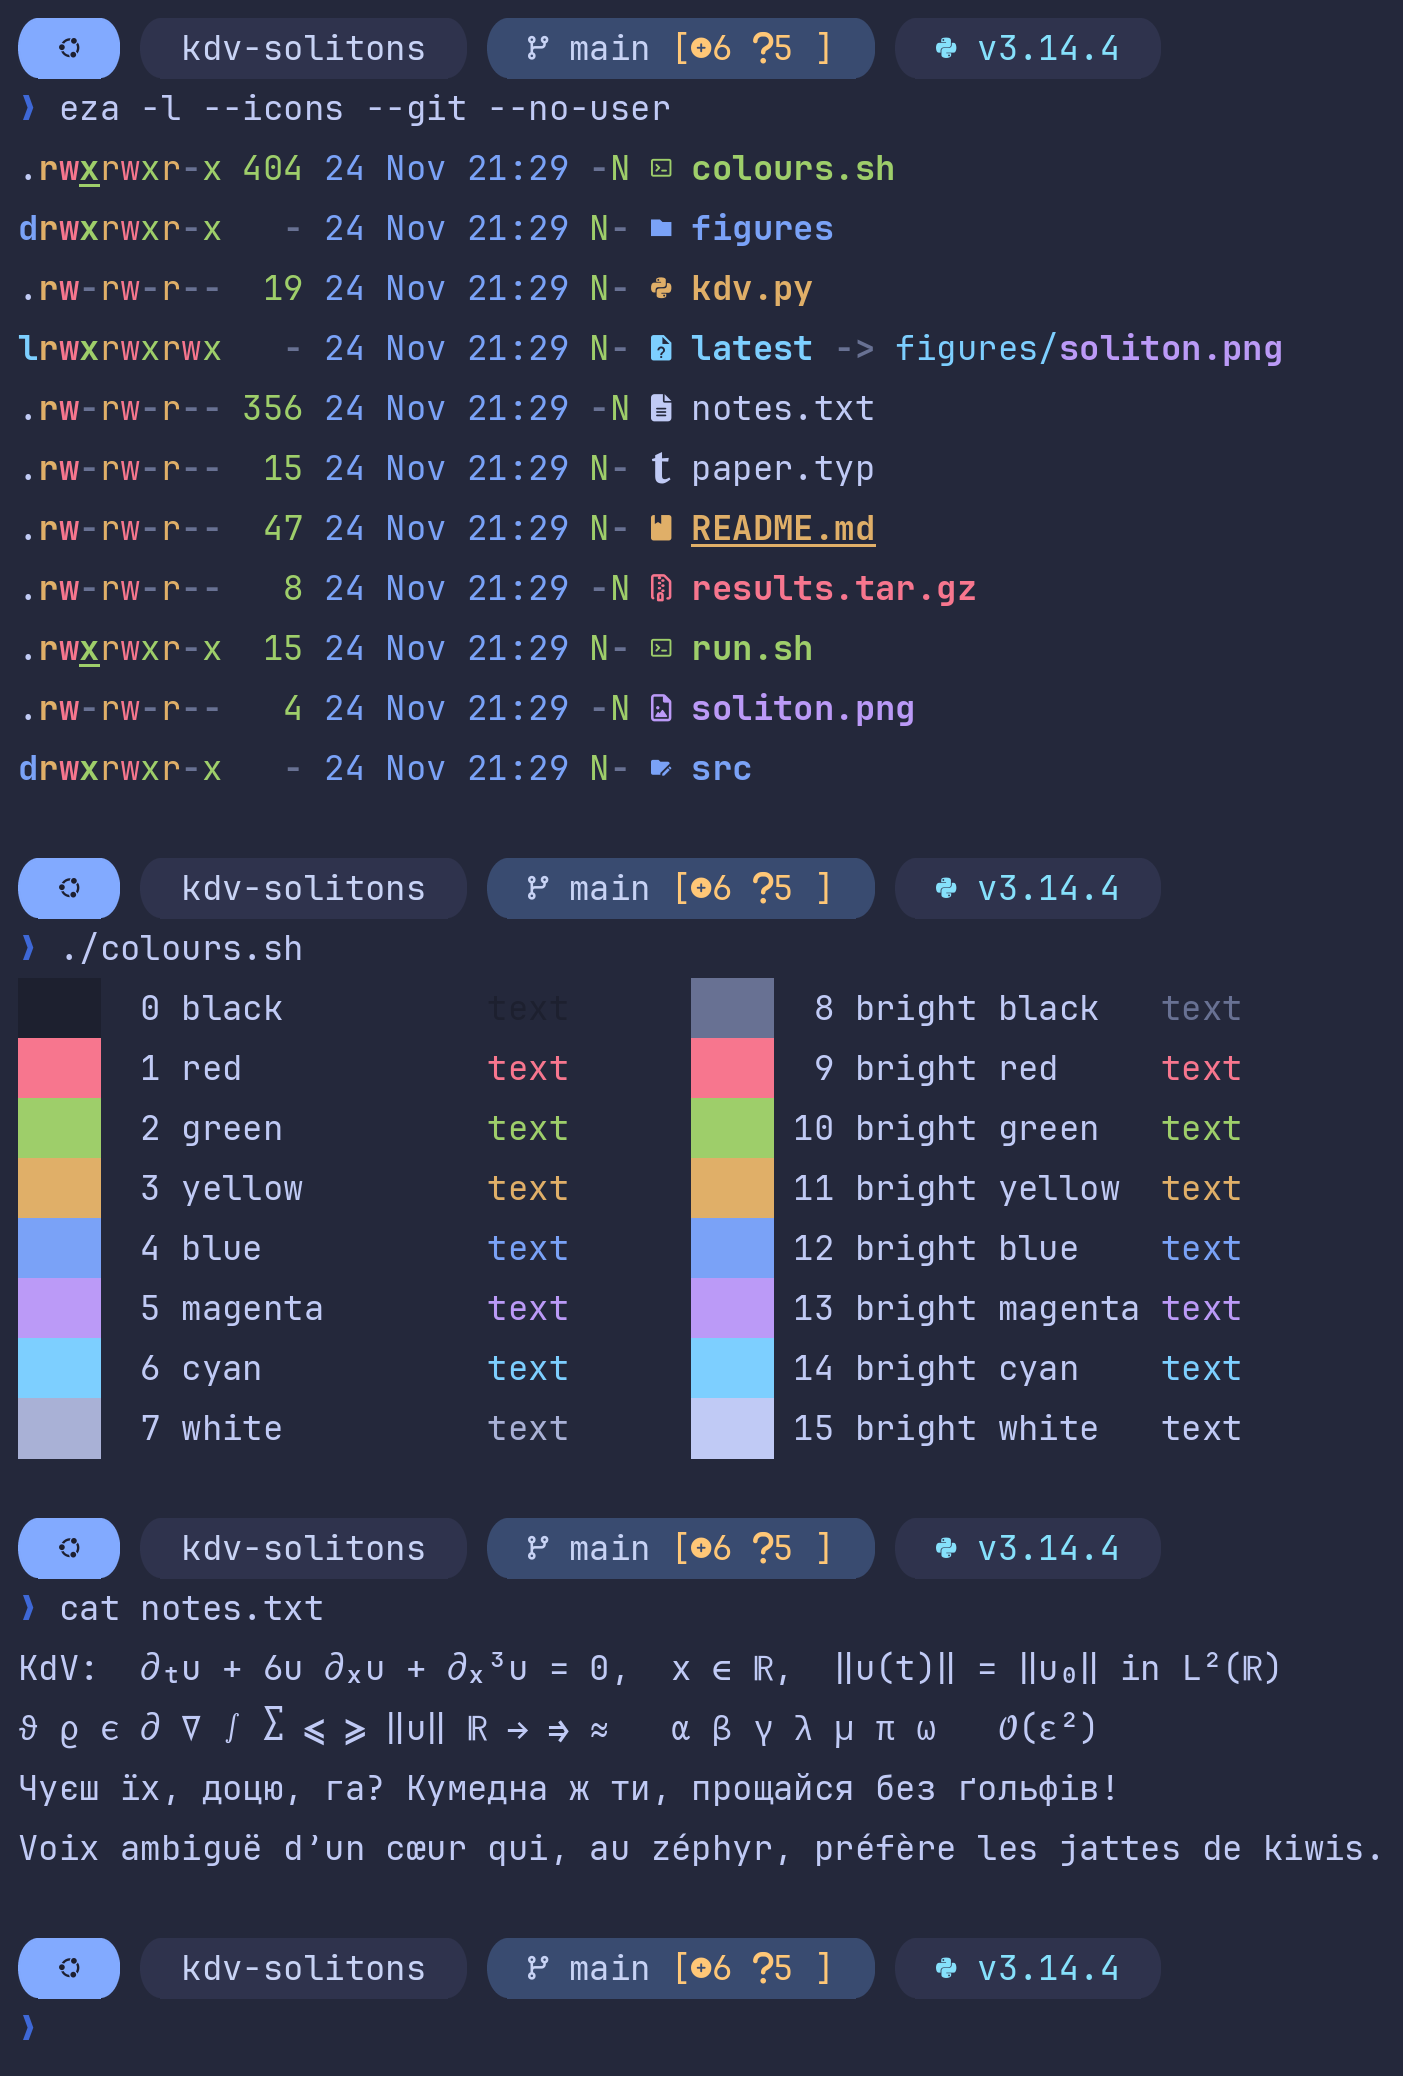
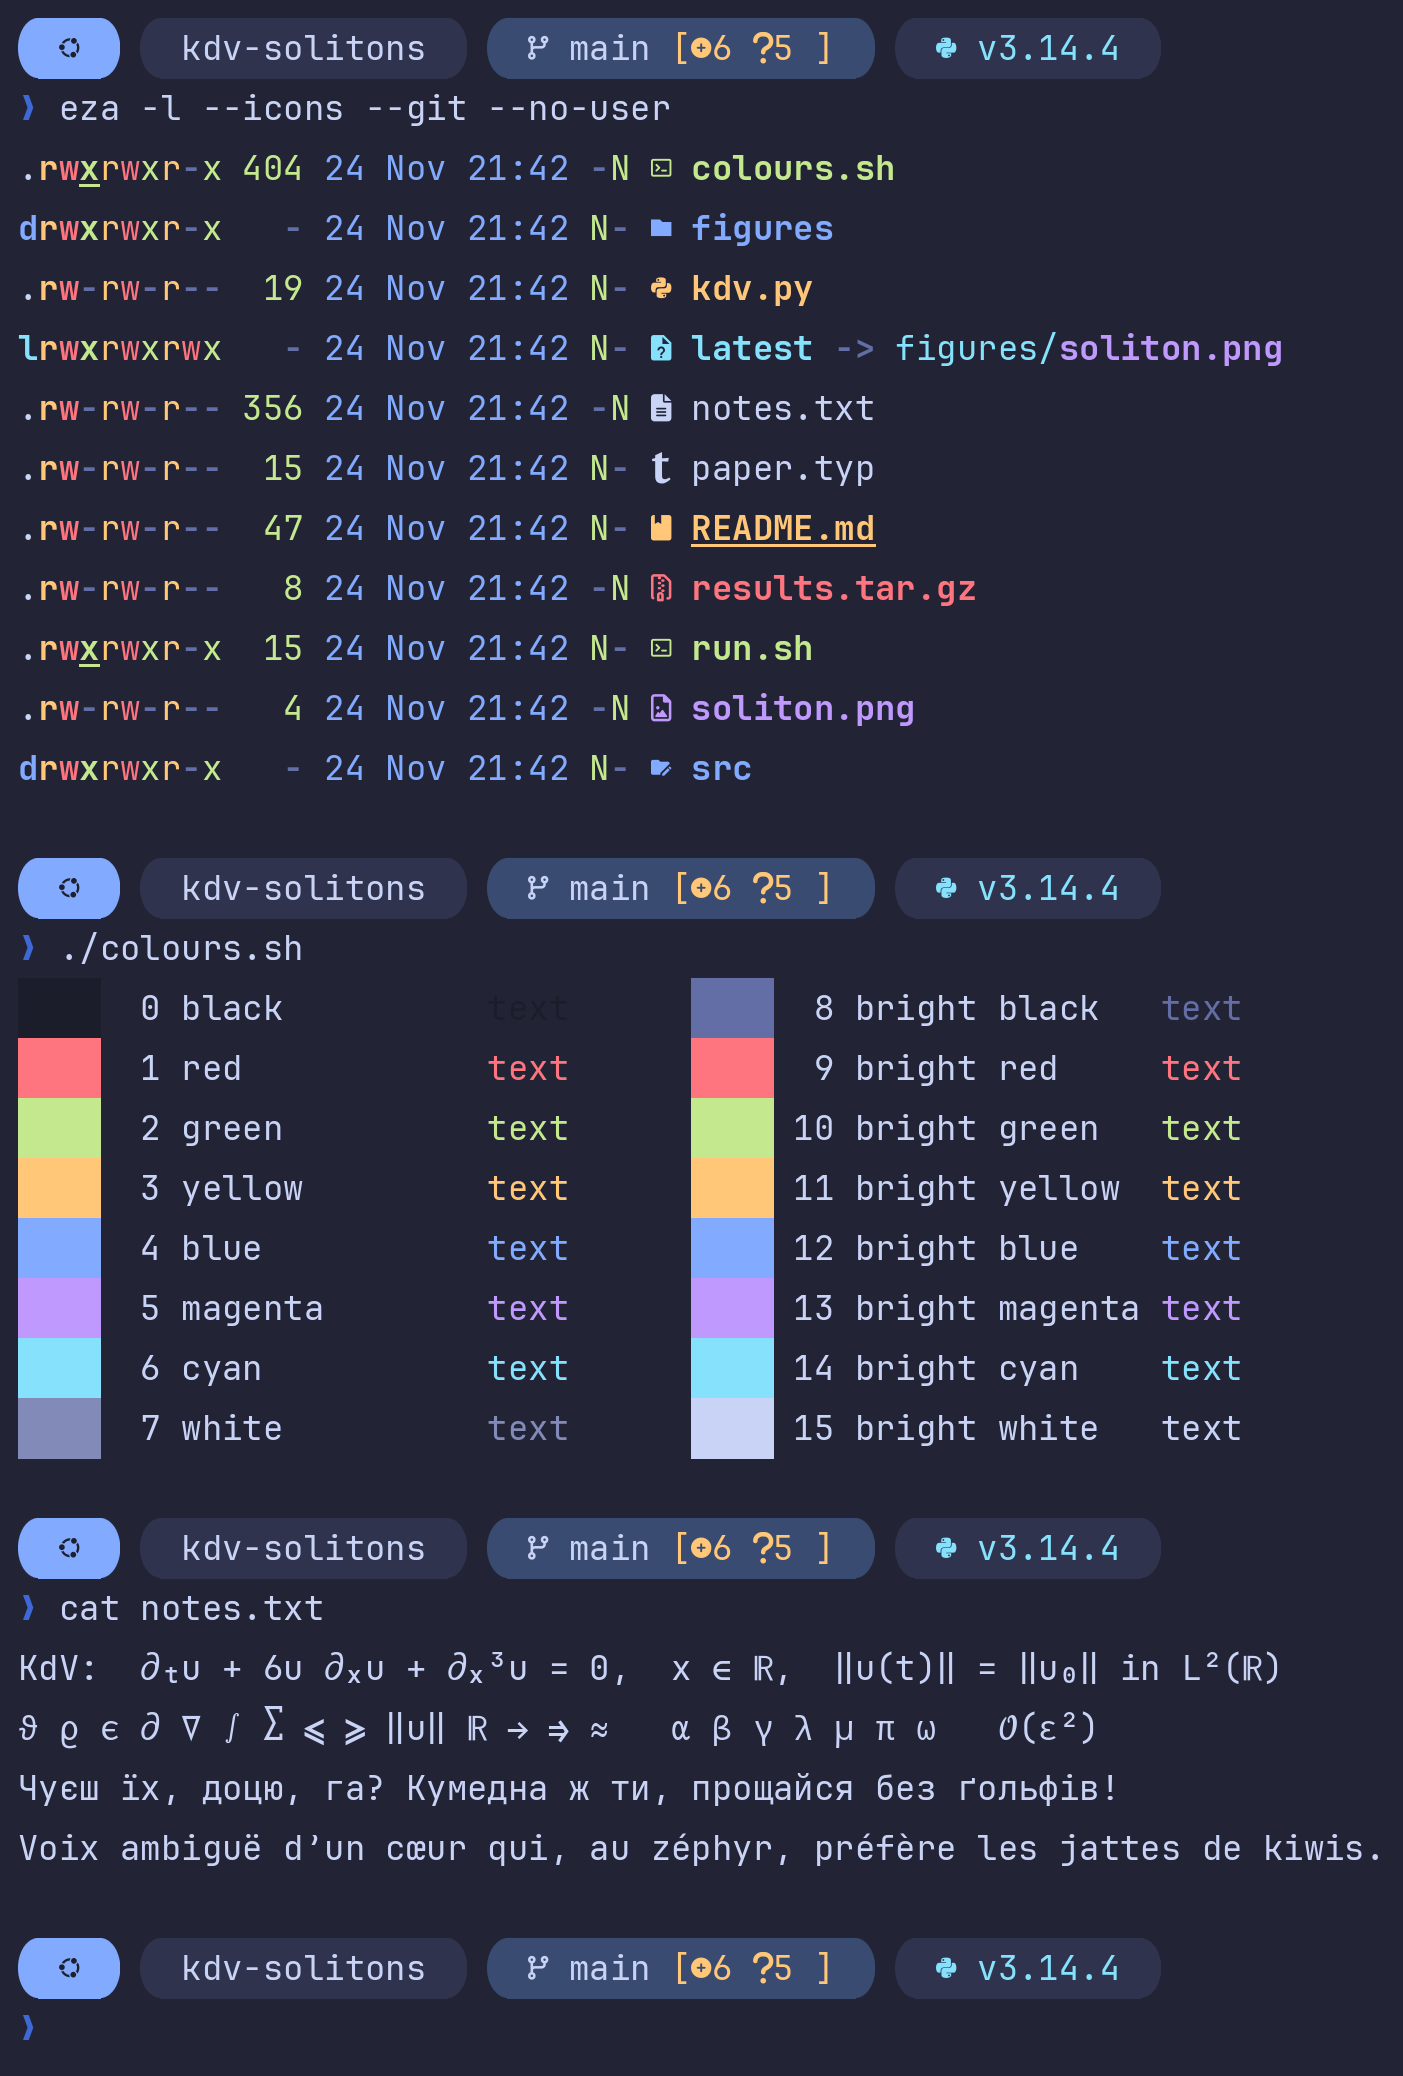
A Regular Commit to Synchronise
changed  README.md
changed  docs/README.md
changed  docs/make-previews.sh
changed  docs/palette.py
changed  docs/terminal-dark.png
changed  docs/terminal-light.png
changed  ghostty/README.md
changed  ghostty/config.ghostty
changed  ghostty/install.sh
changed  ghostty/local.example
changed  tmux/README.md
changed  tmux/tmux.conf
new      ghostty/themes/tokyo-night-moon

diff --git a/docs/palette.py b/docs/palette.py
@@ -4,7 +4,7 @@
 """Measure the colours of a terminal theme: is every text colour readable, and do the hues stay
 apart for a colour-blind reader?
 
-    docs/palette.py                 the four themes of ghostty/themes
+    docs/palette.py                 the five themes of ghostty/themes
     docs/palette.py FILE ...        other Ghostty theme files, by the same rules
     docs/palette.py --markdown      the same tables as Markdown, for a README
 
@@ -16,8 +16,8 @@ ratio of WCAG 2. The distance is the Euclidean one of OKLab, times 100, after th
 through the dichromacy matrices of Machado, Oliveira and Fernandes (2009) in linear sRGB.
 
 The house pair (okabe-ito-ink, okabe-ito-paper) is built to pass every rule, and the exit status is
-1 when one of its values falls below its floor. The Tokyo Night pair keeps the hues of its scheme:
-it is measured by the same rules, its low values are marked, and they do not change the exit status.
+1 when one of its values falls below its floor. The three Tokyo Night themes (Storm, Moon and Day)
+keep the hues of their scheme: they are measured by the same rules, its low values are marked, and they do not change the exit status.
 A file named on the command line is judged like the house pair. Standard library only.
 """
 import argparse
@@ -28,7 +28,7 @@ from pathlib import Path
 
 REPO = Path(__file__).resolve().parent.parent
 HOUSE = ["okabe-ito-ink", "okabe-ito-paper"]        # judged: these must pass
-MEASURED = ["tokyo-night", "tokyo-night-day"]       # measured: the hues of their scheme stay
+MEASURED = ["tokyo-night", "tokyo-night-moon", "tokyo-night-day"]   # measured: the hues of their scheme stay
 NAMES = ["black", "red", "green", "yellow", "blue", "magenta", "cyan", "white"]
 HUES = range(1, 7)
 
@@ -202,7 +202,7 @@ def main():
             failures += report(read_theme(folder / name), args.markdown, judged=True)
         noted = sum(report(read_theme(folder / name), args.markdown, judged=False) for name in MEASURED)
         if not args.markdown:
-            print(f"palette: {noted} value{'s' * (noted != 1)} of the Tokyo Night pair below a floor "
+            print(f"palette: {noted} value{'s' * (noted != 1)} of the Tokyo Night themes below a floor "
                   f"(marked low, kept as the scheme has them)")
     if failures and not args.markdown:
         print(f"palette: {failures} finding{'s' * (failures != 1)}")

diff --git a/ghostty/README.md b/ghostty/README.md
@@ -3,7 +3,7 @@
 # Ghostty: a calm terminal for text and mathematics
 
 One shared configuration for the terminal [Ghostty](https://ghostty.org): the colours of Tokyo
-Night, JetBrains Mono with JuliaMono for Greek and mathematics, tabs in the title bar, quiet splits,
+Night Moon, JetBrains Mono with JuliaMono for Greek and mathematics, tabs in the title bar, quiet splits,
 and keys that leave the programs their own. Nothing blinks, nothing is transparent, nothing makes a
 sound.
 
@@ -26,7 +26,7 @@ left on purpose.
 
 | Choice | Setting | Why |
 |---|---|---|
-| Tokyo Night | `theme = tokyo-night` | A dark scheme of soft blues with clear accents; one line of the local file chooses another. |
+| Tokyo Night Moon | `theme = tokyo-night-moon` | A dark scheme of soft blues with clear accents, in the variant Moon that the Herdr window, Zed and the prompt wear too; one line of the local file chooses another. |
 | One window, one piece | `window-theme = ghostty` | The title bar takes its colours from the theme, a shade off the terminal, instead of the grey of the desktop. |
 | Tabs in the title bar | `gtk-titlebar-style = tabs` | No second bar: a row of text is won, and one tab alone is simply the title. |
 | A flat frame | `gtk-toolbar-style = flat` | No shadow falls on the terminal: the shade of the bar is enough to tell it apart. |
@@ -61,15 +61,17 @@ tabs back after a restart: [tmux](../tmux/README.md) keeps a session alive inste
 
 ## Colour schemes
 
-Four theme files come with the configuration. The theme `tokyo-night` is the default and
-`tokyo-night-day` its light companion for projectors and daylight. The themes `okabe-ito-ink` and
+Five theme files come with the configuration. The theme `tokyo-night-moon` is the default,
+`tokyo-night` the variant Storm of the same scheme, and `tokyo-night-day` the light companion for
+projectors and daylight. The themes `okabe-ito-ink` and
 `okabe-ito-paper` are the house pair: the hues of Okabe and Ito, which stay apart for colour-blind
 readers, on the ink and the paper of the Claude Code status line. One line of
 `~/.config/ghostty/local` chooses:
 
 ```
+theme = tokyo-night
 theme = tokyo-night-day
-theme = light:tokyo-night-day,dark:tokyo-night
+theme = light:tokyo-night-day,dark:tokyo-night-moon
 theme = okabe-ito-ink
 theme = light:okabe-ito-paper,dark:okabe-ito-ink
 ```
@@ -83,16 +85,16 @@ floor for text and 3 for large or dim text) and the distance between the two nea
 times 100; below 5 two colours are hard to tell apart). The script `docs/palette.py` prints it in
 full.
 
-| | `tokyo-night` | `tokyo-night-day` | `okabe-ito-ink` | `okabe-ito-paper` |
-|---|---|---|---|---|
-| text on the background | 9.0 | 4.5 | 12.6 | 15.3 |
-| weakest of the twelve hues | 5.5 (red) | 3.0 (red) | 5.0 (green) | 4.6 (yellow) |
-| dim text, colour 8 | 3.0 | 2.1 | 3.3 | 3.5 |
-| text on a row painted in colour 8 | 3.0 | 2.1 | 3.8 | 4.4 |
-| selected text | 5.3 | 2.5 | 8.1 | 11.4 |
-| nearest two hues, normal vision | 8.7 (blue and magenta) | 8.4 (green and yellow) | 7.8 (blue and cyan) | 7.5 (red and yellow) |
-| nearest two hues, protanopia | 0.3 (blue and magenta) | 0.8 (green and yellow) | 7.4 (blue and magenta) | 7.0 (green and yellow) |
-| nearest two hues, deuteranopia | 0.8 (green and yellow) | 1.1 (blue and magenta) | 5.3 (green and magenta) | 5.4 (green and magenta) |
+| | `tokyo-night-moon` | `tokyo-night` | `tokyo-night-day` | `okabe-ito-ink` | `okabe-ito-paper` |
+|---|---|---|---|---|---|
+| text on the background | 10.3 | 9.0 | 4.5 | 12.6 | 15.3 |
+| weakest of the twelve hues | 5.9 (red) | 5.5 (red) | 3.0 (red) | 5.0 (green) | 4.6 (yellow) |
+| dim text, colour 8 | 3.1 | 3.0 | 2.1 | 3.3 | 3.5 |
+| text on a row painted in colour 8 | 3.3 | 3.0 | 2.1 | 3.8 | 4.4 |
+| selected text | 6.8 | 5.3 | 2.5 | 8.1 | 11.4 |
+| nearest two hues, normal vision | 8.9 (blue and magenta) | 8.7 (blue and magenta) | 8.4 (green and yellow) | 7.8 (blue and cyan) | 7.5 (red and yellow) |
+| nearest two hues, protanopia | 2.1 (blue and magenta) | 0.3 (blue and magenta) | 0.8 (green and yellow) | 7.4 (blue and magenta) | 7.0 (green and yellow) |
+| nearest two hues, deuteranopia | 2.1 (blue and magenta) | 0.8 (green and yellow) | 1.1 (blue and magenta) | 5.3 (green and magenta) | 5.4 (green and magenta) |
 
 Tokyo Night is the calmer picture and the house pair the more legible one: its text is stronger, its
 light twin keeps every colour above 4.5, and its hues stay apart without red and green vision, where
@@ -100,7 +102,7 @@ Tokyo Night lets blue meet magenta and green meet yellow.
 
 ### Colour 8 of Tokyo Night
 
-One colour of the two Tokyo Night files is not the one of the scheme. Colour 8 (bright black) is the
+One colour of the three Tokyo Night files is not the one of the scheme. Colour 8 (bright black) is the
 dim text of many programs: paths, counts, hints, line numbers. Tokyo Night sets it to `#414868`, a
 contrast of 1.6 on its background, which cannot be read. Here it is `#687193`, the same hue made
 lighter, at 3.0.
@@ -108,7 +110,8 @@ lighter, at 3.0.
 It does not go higher because some programs also paint a row in colour 8 and write on it. The contrast
 of the dim text and the contrast of the text on such a row multiply to the contrast of text on
 background, 9.0, so when one rises above 3.0 the other falls below it. At `#687193` both stand at 3.0.
-The light companion has less to share: its text stands at 4.5, so colour 8 (`#959AB9` instead of
+Moon has more to share: its text reaches 10.3, and colour 8 (`#636DA6`, the comment colour of Moon, instead of the `#444A73` of
+its terminal theme, which gives 1.8) reaches 3.1 while a row painted in it keeps 3.3. The light companion has less to share: its text stands at 4.5, so colour 8 (`#959AB9` instead of
 `#A1A6C5`) gives 2.1 to each. For a projector, `okabe-ito-paper` reads better.
 
 ## Keys
@@ -228,7 +231,7 @@ The other terminal stays installed and keeps its settings.
 | file | purpose |
 |---|---|
 | `config.ghostty` | the shared configuration (tracked), linked to `~/.config/ghostty/config.ghostty` |
-| `themes/tokyo-night`, `themes/tokyo-night-day` | Tokyo Night and its light companion, with the readable colour 8 |
+| `themes/tokyo-night-moon`, `themes/tokyo-night`, `themes/tokyo-night-day` | Tokyo Night Moon (the default), Storm and the light companion, each with a readable colour 8 |
 | `themes/okabe-ito-ink`, `themes/okabe-ito-paper` | the house pair |
 | `local.example` | the first content of `~/.config/ghostty/local` |
 | `fit-window.sh` | finds the window size to ask for on a machine whose text is scaled |
@@ -238,7 +241,7 @@ The other terminal stays installed and keeps its settings.
 
 ```bash
 rm ~/.config/ghostty/config.ghostty                     # the symlink
-rm ~/.config/ghostty/themes/tokyo-night ~/.config/ghostty/themes/tokyo-night-day
+rm ~/.config/ghostty/themes/tokyo-night-moon ~/.config/ghostty/themes/tokyo-night ~/.config/ghostty/themes/tokyo-night-day
 rm ~/.config/ghostty/themes/okabe-ito-ink ~/.config/ghostty/themes/okabe-ito-paper
 rm ~/.config/ghostty/local                              # optional: the settings of this machine
 rm -f ~/.config/xdg-terminals.list                      # if Ghostty was made the default terminal

diff --git a/README.md b/README.md
@@ -27,7 +27,7 @@
   <img alt="Starship prompt: Tokyo Night Moon pills with OS glyph, folder, git branch, Python version and command duration, above a chevron input line" src="docs/starship-prompt-light.png">
 </picture>
 
-**Ghostty terminal**: Tokyo Night, JetBrains Mono, and JuliaMono for the mathematics.
+**Ghostty terminal**: Tokyo Night Moon, JetBrains Mono, and JuliaMono for the mathematics.
 
 <picture>
   <source media="(prefers-color-scheme: dark)" srcset="docs/terminal-dark.png">
@@ -66,7 +66,7 @@ README; the root `install.sh` simply runs them all.
 |---|---|
 | [`claude/`](claude/README.md) | Claude Code status line (3 lines, Nerd Font / emoji icons, light-dark aware, colour-blind-safe) |
 | [`starship/`](starship/README.md) | Starship prompt in Tokyo Night Moon pills (Nerd Font icons, light-dark readable) |
-| [`ghostty/`](ghostty/README.md) | Ghostty terminal: Tokyo Night with a light companion, a colour-blind-safe house pair, two fonts of one width for text and mathematics, tabs in the title bar, keys that leave the programs their own |
+| [`ghostty/`](ghostty/README.md) | Ghostty terminal: Tokyo Night Moon, with the variant Storm and a light companion, a colour-blind-safe house pair, two fonts of one width for text and mathematics, tabs in the title bar, keys that leave the programs their own |
 | [`tmux/`](tmux/README.md) | tmux: what a modern terminal can do, and a quiet status line in the colours of the terminal |
 
 The folder [`docs/`](docs/README.md) holds the preview pictures and the tools that draw them, with
@@ -130,7 +130,7 @@ rm ~/.config/starship.toml                          # the symlink
 
 # Ghostty terminal
 rm ~/.config/ghostty/config.ghostty                 # the symlink
-rm ~/.config/ghostty/themes/tokyo-night ~/.config/ghostty/themes/tokyo-night-day
+rm ~/.config/ghostty/themes/tokyo-night-moon ~/.config/ghostty/themes/tokyo-night ~/.config/ghostty/themes/tokyo-night-day
 rm ~/.config/ghostty/themes/okabe-ito-ink ~/.config/ghostty/themes/okabe-ito-paper
 rm ~/.config/ghostty/local                          # optional: your per-machine settings
 

diff --git a/docs/README.md b/docs/README.md
@@ -28,7 +28,7 @@ Font, `starship` and `jq`; `optipng` is used to shrink the output if present. Th
 are complete with `eza` and JuliaMono, and degrade without them.
 
 The terminal previews (`terminal-dark.png`, `terminal-light.png`) show a short made-up session,
-written by `terminal-demo.sh`, in the colours of `ghostty/themes/tokyo-night` and of its light
+written by `terminal-demo.sh`, in the colours of `ghostty/themes/tokyo-night-moon` and of its light
 companion: the background, the foreground and the sixteen colours are read from the theme file, and
 Greek and mathematics are drawn with JuliaMono for the blocks that `ghostty/config.ghostty` sends to
 it. They are drawings of the theme, not photographs of Ghostty: the window, the cursor and the exact

diff --git a/tmux/README.md b/tmux/README.md
@@ -12,7 +12,7 @@ window closes, which the terminal itself does not.
   the sixteen colours of the terminal, so tmux wears the colour scheme of the terminal, whichever it
   is, light or dark.
 * **One accent.** The name of the session sits in a pill of the blue of the
-  [Starship prompt](../starship/README.md) (`#1E3A8A` with `#F8FAFC`), the current window is written
+  [Starship prompt](../starship/README.md) (`#82AAFF` with `#1E2030`, the Moon blue of its first pill), the current window is written
   in blue, and everything else is dim.
 * **Nothing lost on the way.** Full colour, links, updates drawn in one piece, the clipboard, modified
   keys, focus and styled underlines pass through tmux to the terminal and back.
